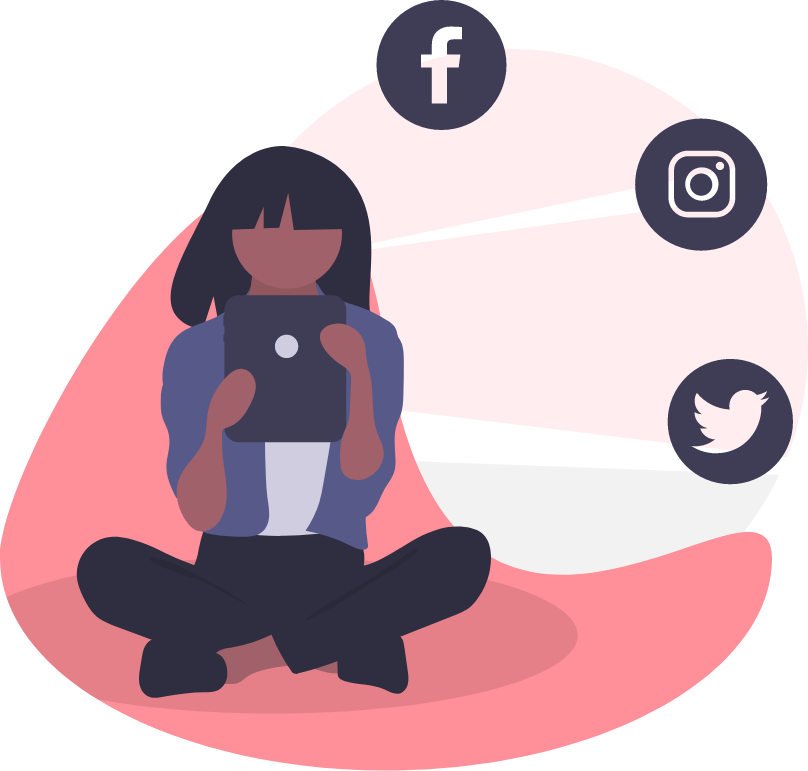
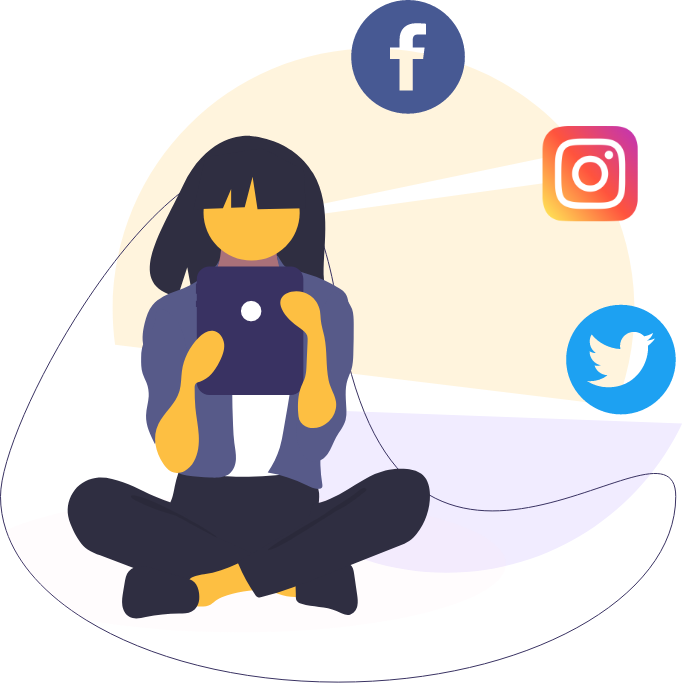
brand page images added and adjusted

diff --git a/layouts/partials/howitswork_brand.html b/layouts/partials/howitswork_brand.html
@@ -20,19 +20,19 @@
 					<div class="tabrow">
 					  <div class="row">
 						  <div class="col-md-4">
-							  <figure><img src='{{"/images/no1.png" | absURL}}' alt=""></figure>
+							  <figure><img src='{{"/images/internet-explorer.png" | absURL}}' alt=""></figure>
 							  <h5>Powerful Search Algorithm</h5>
 							  <p>Find the right influencers for your brand. Famstar’s unrivaled influencer discovery is complemented by filters like gender, age, location, etc. for easy accessibility..</p>
 						  </div>
 						  
 						  <div class="col-md-4">
-							  <figure><img src='{{"/images/no2.png" | absURL}}' alt=""></figure>
+							  <figure><img src='{{"/images/add-friend1.png" | absURL}}' alt=""></figure>
 							  <h5>Profile insights</h5>
 							  <p>Narrow your search by looking through detailed insights of past work of the influencers, their engagement rates, and review their ability to connect with your audience.</p>
 						  </div>
 						  
 						  <div class="col-md-4">
-							  <figure><img src='{{"/images/no3.png" | absURL}}' alt=""></figure>
+							  <figure><img src='{{"/images/details.png" | absURL}}' alt=""></figure>
 							  <h5>Save Your Favourite</h5>
 							  <p>Create & maintain a bucket list, grow your community by listing favorites and get in touch with them with just a click.</p>
 						  </div>
@@ -52,19 +52,19 @@
 					<div class="tabrow">
 					  <div class="row">
 						  <div class="col-md-4">
-							  <figure><img src='{{"/images/no1.png" | absURL}}' alt=""></figure>
+							  <figure><img src='{{"/images/taking_selfie.png" | absURL}}' alt=""></figure>
 							  <h5>Campaign Creation</h5>
 							  <p>Analyse influencer’s data to understand how they stack against your brand. Identify people who have a strong influence on social media and create detailed briefs to engage with them</p>
 						  </div>
 						  
 						  <div class="col-md-4">
-							  <figure><img src='{{"/images/no2.png" | absURL}}' alt=""></figure>
+							  <figure><img src='{{"/images/Page-1.png" | absURL}}' alt=""></figure>
 							  <h5>Open Bidding</h5>
 							  <p>Optimise your budget, match bids to target the influencers and negotiate a competitive price. Partner with the most talented minds and run exciting campaigns.</p>
 						  </div>
 						  
 						  <div class="col-md-4">
-							  <figure><img src='{{"/images/no3.png" | absURL}}' alt=""></figure>
+							  <figure><img src='{{"/images/approve.png" | absURL}}' alt=""></figure>
 							  <h5>Content Approval</h5>
 							  <p>Approve the content that meets your goals and message. Handpick posts that increase your customer base and expand your products and services into new user groups.</p>
 						  </div>
@@ -84,19 +84,19 @@
 					<div class="tabrow">
 					  <div class="row">
 						  <div class="col-md-4">
-							  <figure><img src='{{"/images/no1.png" | absURL}}' alt=""></figure>
+							  <figure><img src='{{"/images/Monitoring.png" | absURL}}' alt=""></figure>
 							  <h5>Monitor Campaigns</h5>
 							  <p>Cultivate your brand visibility by managing campaigns right from your smartphone, tablet, or laptop. Monitor the posts and their respective results in real time.</p>
 						  </div>
 						  
 						  <div class="col-md-4">
-							  <figure><img src='{{"/images/no2.png" | absURL}}' alt=""></figure>
+							  <figure><img src='{{"/images/workflow.png" | absURL}}' alt=""></figure>
 							  <h5>Analyset</h5>
 							  <p>Track the reach, impressions, conversions & total value addition of campaign, post or influencer. Use the data to improve the effectiveness of your social media marketing program.</p>
 						  </div>
 						  
 						  <div class="col-md-4">
-							  <figure><img src='{{"/images/no3.png" | absURL}}' alt=""></figure>
+							  <figure><img src='{{"/images/down.png" | absURL}}' alt=""></figure>
 							  <h5>Download Reports</h5>
 							  <p>Download reports and summarise entire factors for future reference. Identify strong campaigns, filter out low performing influencers and turn information into actionable insight.</p>
 						  </div>

diff --git a/layouts/partials/campaings_brand.html b/layouts/partials/campaings_brand.html
@@ -26,33 +26,33 @@
 								<div id="tabsContent" class="tab-content">
 									<div id="content-tab" class="tab-pane fade active show">
 										<div class="w-100">
-											<figure><img src='{{"/images/noo1.png" | absURL }}' alt=""></figure>
+											<figure><img src='{{"/images/add-friend.png" | absURL }}' alt=""></figure>
 											<h5>Create campaign</h5>
 											<p>Create campaigns easily by defining your audience, goals and preferred social media platforms. Set your budget, get bids accordingly and approve only those projects that meet your criteria. </p></div>
 											
 											<div class="w-100">
-											<figure><img  src='{{"/images/noo2.png" | absURL }}' alt=""></figure>
+											<figure><img  src='{{"/images/details.png" | absURL }}' alt=""></figure>
 											<h5>Select Influencers</h5>
 											<p>Pick the content creators who meet your reach, traffic, engagement and conversion standards. Pick between cross bidding and one to one negotiations.</p></div>
 											
 											<div class="w-100">
-											<figure><img src='{{"/images/noo3.png" | absURL }}' alt=""></figure>
+											<figure><img src='{{"/images/internet-explorer.png" | absURL }}' alt=""></figure>
 											<h5>Monitor Your Performance</h5>
 											<p>Evaluate the effectiveness of the posts in increasing brand awareness, reaching new audiences, and release the payment only after approving the content.</p></div>
 									</div>
 									<div id="engagement-tab" class="tab-pane fade">
 										<div class="w-100">
-											<figure><img src='{{"/images/noo1.png" | absURL }}' alt=""></figure>
+											<figure><img src='{{"/images/add-friend.png" | absURL }}' alt=""></figure>
 											<h5>Launch the campaign</h5>
 											<p>Increase awareness of your products and encourage trials by opening your campaigns to all influencers.</p></div>
 											
 											<div class="w-100">
-											<figure><img  src='{{"/images/noo2.png" | absURL }}' alt=""></figure>
+											<figure><img  src='{{"/images/details.png" | absURL }}' alt=""></figure>
 											<h5>Set your goal</h5>
 											<p>Mention how much reach you want and define an agreeable engagement rate. Take benefit of Famstar’s auto budget suggestions to launch quick campaigns.</p></div>
 											
 											<div class="w-100">
-											<figure><img src='{{"/images/noo3.png" | absURL }}' alt=""></figure>
+											<figure><img src='{{"/images/internet-explorer.png" | absURL }}' alt=""></figure>
 											<h5>Enjoy your reach</h5>
 											<p>Get automated reports on influencers’ creative content and release payments only for those posts that meet the campaign goals.</p></div>
 									</div>

diff --git a/layouts/partials/better_service.html b/layouts/partials/better_service.html
@@ -7,28 +7,28 @@
 			
 			<div class="row mt-4">
 				<div class="col-md-3 mt-4 mt-md-0">
-					<img  src='{{"/images/chat.png" | absURL }}'  alt="">
+					<img  src='{{"/images/speedometer.png" | absURL }}'  alt="">
 					<h4>Speed</h4>
 					<p>Find the right influencer to talk about your products. Set up your campaigns in minutes and gain access to potential prospects.</p>
 					<div class="mt-md-4"><a href="#" class="get-arrow">Learn More</a></div>
 				</div>
 				
 				<div class="col-md-3 mt-4 mt-md-0">
-					<img  src='{{"/images/headphones.png" | absURL }}' alt="">
+					<img  src='{{"/images/strategy.png" | absURL }}' alt="">
 					<h4>Reach</h4>
 					<p>Allow a fresh take on content to attract attention of more people. Use indirect marketing to influence individuals who have become desensitised to your core message.</p>
 					<div class="mt-md-4"><a href="#" class="get-arrow">Learn More</a></div>
 				</div>
 				
 				<div class="col-md-3 mt-4 mt-md-0">
-					<img  src='{{"/images/envelope.png" | absURL }}' alt="">
+					<img  src='{{"/images/transparency.png" | absURL }}' alt="">
 					<h4>Transparency</h4>
 					<p>Connect with the influencer to create direct sales lead. Identify the top of the line individuals and use in-built analytics to measure their efforts.</p>
 					<div class="mt-md-4"><a href="#" class="get-arrow">Learn More</a></div>
 				</div>
 				
 				<div class="col-md-3 mt-4 mt-md-0">
-					<img  src='{{"/images/bag.png" | absURL }}' alt="">
+					<img  src='{{"/images/chat.png" | absURL }}' alt="">
 					<h4>Chat</h4>
 					<p>with content creators directly after approving them to enhance the efficiency of your marketing cycle.</p>
 					<div class="mt-md-4"><a href="#" class="get-arrow">Learn More</a></div>

diff --git a/layouts/partials/happycustomer.html b/layouts/partials/happycustomer.html
@@ -22,7 +22,7 @@
 							</div>
 						</div>
 						
-						<div class="col-md-6 pl-0"><img src='{{"/images/dblpic1.png" | absURL }}' alt=""></div>
+						<div class="col-md-6 pl-0"><img src='{{"/images/happy1.png" | absURL }}' alt=""></div>
 					</div>
 				</div>
 				
@@ -40,7 +40,7 @@
 							</div>
 						</div>
 						
-						<div class="col-md-6 pl-0"><img src= '{{"/images/dblpic2.png" | absURL }}' alt=""></div>
+						<div class="col-md-6 pl-0"><img src= '{{"/images/happy2.png" | absURL }}' alt=""></div>
 					</div>
 				</div>
 				
@@ -58,7 +58,7 @@
 							</div>
 						</div>
 						
-						<div class="col-md-6 pl-0"><img  src= '{{"/images/dblpic2.png" | absURL }}' alt=""></div>
+						<div class="col-md-6 pl-0"><img  src= '{{"/images/happy3.png" | absURL }}' alt=""></div>
 					</div>
 				</div>
 				
@@ -76,7 +76,7 @@
 							</div>
 						</div>
 						
-						<div class="col-md-6 pl-0"><img src= '{{"/images/dblpic1.png" | absURL }}' alt=""></div>
+						<div class="col-md-6 pl-0"><img src= '{{"/images/happy4.png" | absURL }}' alt=""></div>
 					</div>
 				</div>
 			</div>

diff --git a/layouts/partials/50kcreatoers.html b/layouts/partials/50kcreatoers.html
@@ -3,8 +3,8 @@
 		<div class="container">
 			<div class="row align-items-center">
 				<div class="col-md-6 pl-5">
-					<h4>50k+ creatoers</h4>
-					<h2>Inspirinf action through great content</h2>
+					<h4>50k+ creators</h4>
+					<h2>Inspiring action through great content</h2>
 				</div>
 				
 				<div class="col-md-6 pr-0">					
@@ -22,15 +22,7 @@
 					 </div> 
 					 
 					 <div class="item">
-						 <img src='{{"/images/person1.png" | absURL}}'>
-					 </div> 
-					 
-					 <div class="item">
-						 <img src='{{"/images/person2.png" | absURL}}'>
-					 </div>  
-					 
-					 <div class="item">
-						 <img src='{{"/images/person3.png" | absURL}}'>
+						 <img src='{{"/images/person4.png" | absURL}}'>
 					 </div> 
 				</div>
 			</div>

diff --git a/static/css/custommedia.css b/static/css/custommedia.css
@@ -35,7 +35,7 @@
   #hero h1{font-size:19px; padding-top: 46px;}
   #hero h4{font-size:19px; line-height: 1.7rem;}
   #hero h3 {font-size:18px;}
-  .bannerleft{margin-top:300px;}
+  .bannerleft{margin-top:331px;}
   .bannerleft h3{font-size:16px;}
   .followersection{
     font-size: 16px;
